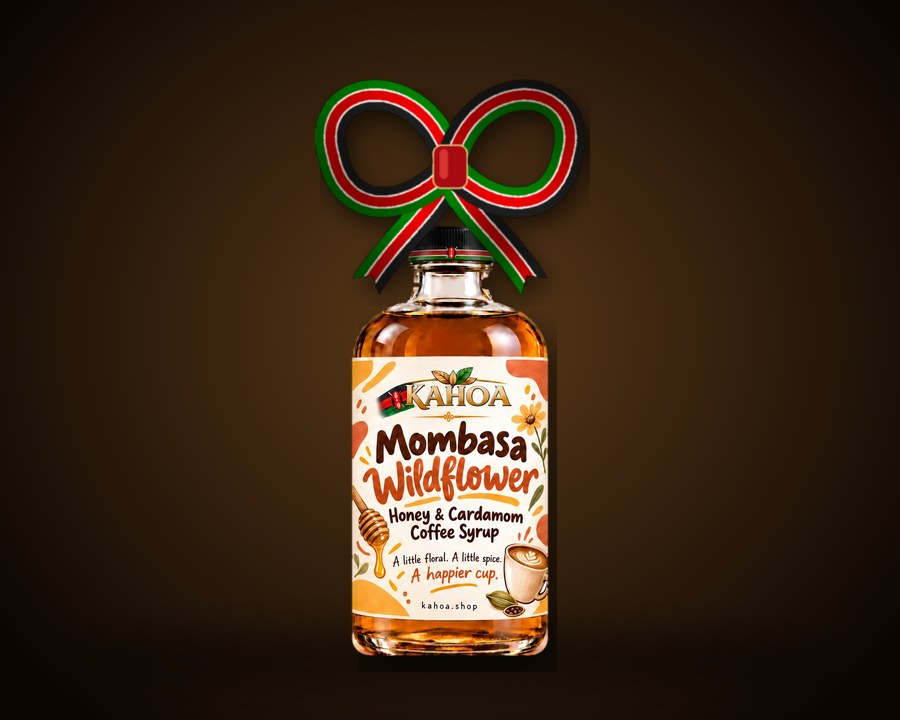
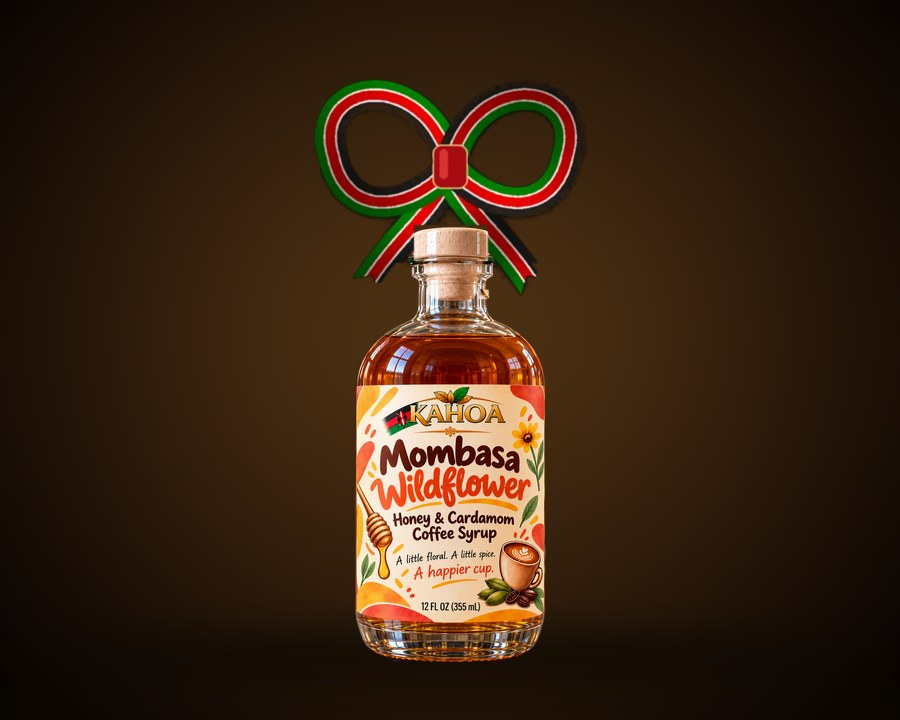
Swap syrup bottle photos to the new beige-cork bottle everywhere
Homepage strip, shop banner and syrup card, presale page, emails (syrup-front.jpg) and all six syrup gift-card images.

Claude-Session: https://claude.ai/code/session_01RGeNMpHd4Zkf2WXfT25wvz

Changed region(s): [[0.3733, 0.3056, 0.6222, 0.9472], [0.5911, 0.3667, 0.6222, 0.3972]]

diff --git a/shop.html b/shop.html
@@ -162,7 +162,7 @@ window.kahoaLaborDayActive=window.kahoaIsMemorialSaleActive;
 </script>
 
 <section style="min-height:52vh;background:radial-gradient(ellipse 80% 60% at 50% 0%,#2C1408 0%,#0E0502 55%,#000 100%);display:flex;flex-direction:column;align-items:center;justify-content:center;text-align:center;padding:120px 6% 60px;position:relative;overflow:hidden;"><style>@media (prefers-reduced-motion: reduce){#kahoa-shop-hero-video{display:none;}}</style><video id="kahoa-shop-hero-video" autoplay muted loop playsinline preload="metadata" poster="/kahoa-shop-hero-poster.jpg" style="position:absolute;top:0;left:0;width:100%;height:100%;object-fit:cover;z-index:0;"><source src="/kahoa-shop-hero.mp4" type="video/mp4"></video><div style="position:absolute;inset:0;z-index:1;background:linear-gradient(180deg,rgba(10,5,2,0.6) 0%,rgba(10,5,2,0.75) 45%,rgba(10,5,2,0.94) 100%),radial-gradient(ellipse 55% 35% at 50% 25%,rgba(192,122,42,0.12) 0%,transparent 70%);pointer-events:none;"></div><div style="position:relative;z-index:2;"><img src=/kahoa-logo.png alt="Kahoa Coffee" style="height:96px;width:auto;margin-bottom:18px;filter:drop-shadow(0 4px 20px rgba(212,168,67,0.2));"><p style="font-size:12px;letter-spacing:5px;text-transform:uppercase;color:rgba(212,168,67,0.72);margin-bottom:12px;font-weight:400;">Direct Trade · Single Origin · Austin Roasted</p><h1 style="font-family:'Cormorant Garamond',serif;font-size:clamp(40px,6vw,78px);font-weight:300;color:#fff;line-height:1.08;margin-bottom:14px;">Shop <em style="color:var(--gold);font-style:italic">Kahoa</em></h1><p style="font-size:15px;line-height:1.85;color:rgba(255,255,255,0.6);max-width:460px;margin:0 auto 26px;font-weight:300;">Kenyan highland coffee · apparel · gear · USA Kayak collab</p><div style="display:flex;gap:12px;flex-wrap:wrap;justify-content:center;"><a href=#coffee class=btn-primary>Browse Coffee</a></div></div></section><div class=divider-strip><span>Single Origin</span><span class=d-dot>·</span><span>Direct Trade</span><span class=d-dot>·</span><span>Austin Roasted</span><span class=d-dot>·</span><span>Free Austin Delivery</span></div>
-<a id="presale-banner" href="/syrup-presale.html" style="display:block;padding:22px 5%;text-decoration:none;color:#1A0C05;background:#F9F2E3;border-top:1px solid rgba(168,110,60,.3);border-bottom:1px solid rgba(168,110,60,.3);"><div class="pb-in"><img src="/syrup-front.png" alt="Mombasa Wildflower Honey and Cardamom Coffee Syrup" style="width:auto;height:112px;object-fit:contain;flex-shrink:0;filter:drop-shadow(0 8px 10px rgba(60,30,5,.35))"><span style="flex:1;min-width:0"><span style="display:block;font-size:10px;letter-spacing:3px;text-transform:uppercase;color:#C07A2A;font-weight:700;margin-bottom:6px">New &middot; Pre-sale opens Nov 1</span><span style="display:block;font-family:'Cormorant Garamond',serif;font-size:26px;line-height:1.15;font-weight:600">Mombasa Wildflower<br>Honey &amp; Cardamom Syrup</span><span style="display:block;font-size:12px;color:#6b4a2a;margin-top:6px">Texas wildflower honey &middot; Swahili-coast spice &middot; 12 oz &middot; <s style="opacity:.6">$20.00</s> <b style="color:#1A0C05">$18.00</b> Pre-Order Special &middot; ships from Nov 16</span></span><span class="pb-cta">Pre-order &rarr;</span></div></a>
+<a id="presale-banner" href="/syrup-presale.html" style="display:block;padding:22px 5%;text-decoration:none;color:#1A0C05;background:#F9F2E3;border-top:1px solid rgba(168,110,60,.3);border-bottom:1px solid rgba(168,110,60,.3);"><div class="pb-in"><img src="/syrup-front.png?v=2" alt="Mombasa Wildflower Honey and Cardamom Coffee Syrup" style="width:auto;height:112px;object-fit:contain;flex-shrink:0;filter:drop-shadow(0 8px 10px rgba(60,30,5,.35))"><span style="flex:1;min-width:0"><span style="display:block;font-size:10px;letter-spacing:3px;text-transform:uppercase;color:#C07A2A;font-weight:700;margin-bottom:6px">New &middot; Pre-sale opens Nov 1</span><span style="display:block;font-family:'Cormorant Garamond',serif;font-size:26px;line-height:1.15;font-weight:600">Mombasa Wildflower<br>Honey &amp; Cardamom Syrup</span><span style="display:block;font-size:12px;color:#6b4a2a;margin-top:6px">Texas wildflower honey &middot; Swahili-coast spice &middot; 12 oz &middot; <s style="opacity:.6">$20.00</s> <b style="color:#1A0C05">$18.00</b> Pre-Order Special &middot; ships from Nov 16</span></span><span class="pb-cta">Pre-order &rarr;</span></div></a>
 <div style="background:#0a0402;">
 <div class=shop-tabs>
 <div class=shop-tab-scroll-wrap style="position:relative;">
@@ -209,7 +209,7 @@ window.kahoaLaborDayActive=window.kahoaIsMemorialSaleActive;
 <div style="background:#1a0a04;border:1px solid rgba(212,168,67,0.25);overflow:hidden;position:relative;" id="spice-cold-brew-gallon"><div style="position:absolute;top:14px;right:14px;z-index:2;background:#8B0020;color:#fff;font-size:9px;font-weight:700;letter-spacing:1px;padding:4px 8px;border-radius:2px;text-transform:uppercase;">Popular</div><div style="height:300px;overflow:hidden;background:#3a2410;"><img src="/cold-brew-jug.jpg" alt="Kifaru Spice Cold Brew &mdash; Gallon in a Kahoa glass jug" loading="lazy" style="width:100%;height:100%;object-fit:cover;object-position:50% 85%;display:block;"></div><div style="padding:22px;"><p style="font-size:9px;letter-spacing:2px;text-transform:uppercase;color:#D4A843;margin-bottom:6px;font-weight:600;">Kifaru Spice</p><h3 style="font-family:'Cormorant Garamond',serif;font-size:23px;color:#fff;font-weight:600;margin-bottom:6px;">Kifaru Spice Cold Brew &mdash; Gallon</h3><p style="font-size:11px;color:rgba(255,255,255,0.45);margin-bottom:12px;">128 oz &middot; Ready to pour</p><div style="margin-bottom:10px"><span style="display:inline-block;border:1px solid rgba(212,168,67,.4);color:#E8C878;font-size:10px;letter-spacing:1.5px;text-transform:uppercase;padding:5px 9px;border-radius:2px;margin:0 6px 6px 0">Vanilla bean</span><span style="display:inline-block;border:1px solid rgba(212,168,67,.4);color:#E8C878;font-size:10px;letter-spacing:1.5px;text-transform:uppercase;padding:5px 9px;border-radius:2px;margin:0 6px 6px 0">Ginger</span><span style="display:inline-block;border:1px solid rgba(212,168,67,.4);color:#E8C878;font-size:10px;letter-spacing:1.5px;text-transform:uppercase;padding:5px 9px;border-radius:2px;margin:0 6px 6px 0">Cardamom</span><span style="display:inline-block;border:1px solid rgba(212,168,67,.4);color:#E8C878;font-size:10px;letter-spacing:1.5px;text-transform:uppercase;padding:5px 9px;border-radius:2px;margin:0 6px 6px 0">Clove</span><span style="display:inline-block;border:1px solid rgba(212,168,67,.4);color:#E8C878;font-size:10px;letter-spacing:1.5px;text-transform:uppercase;padding:5px 9px;border-radius:2px;margin:0 6px 6px 0">Cinnamon</span></div><p style="font-size:13px;color:rgba(255,255,255,0.6);line-height:1.65;font-weight:300;margin-bottom:14px;">Our full-size jug of spiced Kifaru cold brew, made for families, offices and weekend brunches. Austin-area delivery now, nationwide shipping coming soon.</p><p class="keep-short">Glass jug is yours to keep &middot; refills delivered</p><div class="keep-box" style="display:flex;gap:12px;align-items:flex-start;background:rgba(212,168,67,.08);border:1px solid rgba(212,168,67,.25);padding:12px 14px;margin-bottom:16px"><svg width="22" height="22" viewBox="0 0 24 24" fill="none" stroke="#D4A843" stroke-width="1.8" stroke-linecap="round" stroke-linejoin="round" style="flex-shrink:0;margin-top:1px"><path d="M21 12a9 9 0 1 1-3-6.7"/><path d="M21 4v5h-5"/></svg><p style="font-size:12px;line-height:1.6;color:rgba(255,255,255,.75);font-weight:300"><b style="color:#fff;font-weight:600">Your glass jug is yours to keep.</b> Your first order arrives in our Kahoa glass jug. After that, we deliver refills to pour straight in, on the schedule you choose.</p></div><div style="display:flex;align-items:center;justify-content:center;"><a href="#" onclick="kahoaOpenNotify('Kifaru Spice Cold Brew — Gallon');return false;" style="display:block;text-align:center;width:100%;background:var(--gold);color:var(--coffee-dark);padding:12px 20px;font-family:Montserrat,sans-serif;font-size:11px;font-weight:700;letter-spacing:2px;text-transform:uppercase;text-decoration:none;border-radius:3px;">Coming Soon &mdash; Notify Me</a></div></div></div><div style="background:#1a0a04;border:1px solid rgba(212,168,67,0.25);overflow:hidden;position:relative;" id="nitro-cold-brew-gallon"><div style="position:absolute;top:14px;right:14px;z-index:2;background:#8B0020;color:#fff;font-size:9px;font-weight:700;letter-spacing:1px;padding:4px 8px;border-radius:2px;text-transform:uppercase;">Starter Keg</div><div style="height:380px;overflow:hidden;background:#fff;"><img src="/nitro-keg-64.jpg" alt="Kifaru Spice Nitro &mdash; Kahoa 64 oz nitro keg" loading="lazy" style="width:100%;height:100%;object-fit:contain;display:block;"></div><div style="padding:22px;"><p style="font-size:9px;letter-spacing:2px;text-transform:uppercase;color:#D4A843;margin-bottom:6px;font-weight:600;">Kifaru Spice Nitro</p><h3 style="font-family:'Cormorant Garamond',serif;font-size:23px;color:#fff;font-weight:600;margin-bottom:6px;">Kifaru Spice Nitro &mdash; 64 oz Keg</h3><p style="font-size:11px;color:rgba(255,255,255,0.45);margin-bottom:12px;">64 oz stainless keg &middot; Nitro-ready</p><div style="margin-bottom:10px"><span style="display:inline-block;border:1px solid rgba(212,168,67,.4);color:#E8C878;font-size:10px;letter-spacing:1.5px;text-transform:uppercase;padding:5px 9px;border-radius:2px;margin:0 6px 6px 0">Vanilla bean</span><span style="display:inline-block;border:1px solid rgba(212,168,67,.4);color:#E8C878;font-size:10px;letter-spacing:1.5px;text-transform:uppercase;padding:5px 9px;border-radius:2px;margin:0 6px 6px 0">Ginger</span><span style="display:inline-block;border:1px solid rgba(212,168,67,.4);color:#E8C878;font-size:10px;letter-spacing:1.5px;text-transform:uppercase;padding:5px 9px;border-radius:2px;margin:0 6px 6px 0">Cardamom</span><span style="display:inline-block;border:1px solid rgba(212,168,67,.4);color:#E8C878;font-size:10px;letter-spacing:1.5px;text-transform:uppercase;padding:5px 9px;border-radius:2px;margin:0 6px 6px 0">Clove</span><span style="display:inline-block;border:1px solid rgba(212,168,67,.4);color:#E8C878;font-size:10px;letter-spacing:1.5px;text-transform:uppercase;padding:5px 9px;border-radius:2px;margin:0 6px 6px 0">Cinnamon</span></div><p style="font-size:13px;color:rgba(255,255,255,0.6);line-height:1.65;font-weight:300;margin-bottom:14px;">Our spiced cold brew in a 64 oz keg, with nitrogen capsules so you can infuse it at home for a creamy, cascading pour and a velvety head. Austin-area delivery only.</p><p class="keep-short">Keg is yours to keep &middot; refills delivered</p><div class="keep-box" style="display:flex;gap:12px;align-items:flex-start;background:rgba(212,168,67,.08);border:1px solid rgba(212,168,67,.25);padding:12px 14px;margin-bottom:16px"><svg width="22" height="22" viewBox="0 0 24 24" fill="none" stroke="#D4A843" stroke-width="1.8" stroke-linecap="round" stroke-linejoin="round" style="flex-shrink:0;margin-top:1px"><path d="M21 12a9 9 0 1 1-3-6.7"/><path d="M21 4v5h-5"/></svg><p style="font-size:12px;line-height:1.6;color:rgba(255,255,255,.75);font-weight:300"><b style="color:#fff;font-weight:600">The keg is yours to keep.</b> Your starter order comes with the 64 oz keg, your first fill and nitrogen capsules to infuse it. After that, we deliver refills on the schedule you choose, and you only reorder capsules when you run low.</p></div><p class="keg-price" style="font-size:13px;letter-spacing:.5px;color:#E8C878;font-weight:600;text-align:center;margin:-4px 0 16px">Starter keg $179 &middot; Refill $36 &middot; Capsules 6-pack $12</p><div style="display:flex;align-items:center;justify-content:center;"><a href="#" onclick="kahoaOpenNotify('Kifaru Spice Nitro — 64 oz Starter Keg');return false;" style="display:block;text-align:center;width:100%;background:var(--gold);color:var(--coffee-dark);padding:12px 20px;font-family:Montserrat,sans-serif;font-size:11px;font-weight:700;letter-spacing:2px;text-transform:uppercase;text-decoration:none;border-radius:3px;">Coming Soon &mdash; Notify Me</a></div></div></div><div style="background:#1a0a04;border:1px solid rgba(212,168,67,0.25);overflow:hidden;position:relative;" id="nitro-maker-17"><div style="position:absolute;top:14px;right:14px;z-index:2;background:#8B0020;color:#fff;font-size:9px;font-weight:700;letter-spacing:1px;padding:4px 8px;border-radius:2px;text-transform:uppercase;">Starter</div><div style="height:380px;overflow:hidden;background:#fff;"><img src="/nitro-maker-17.jpg" alt="Kifaru Spice Nitro &mdash; Kahoa 17 oz nitro maker" loading="lazy" style="width:100%;height:100%;object-fit:contain;display:block;"></div><div style="padding:22px;"><p style="font-size:9px;letter-spacing:2px;text-transform:uppercase;color:#D4A843;margin-bottom:6px;font-weight:600;">Kifaru Spice Nitro</p><h3 style="font-family:'Cormorant Garamond',serif;font-size:23px;color:#fff;font-weight:600;margin-bottom:6px;">Kifaru Spice Nitro &mdash; 17 oz Maker</h3><p style="font-size:11px;color:rgba(255,255,255,0.45);margin-bottom:12px;">17 oz (0.5 L) stainless nitro maker</p><div style="margin-bottom:10px"><span style="display:inline-block;border:1px solid rgba(212,168,67,.4);color:#E8C878;font-size:10px;letter-spacing:1.5px;text-transform:uppercase;padding:5px 9px;border-radius:2px;margin:0 6px 6px 0">Vanilla bean</span><span style="display:inline-block;border:1px solid rgba(212,168,67,.4);color:#E8C878;font-size:10px;letter-spacing:1.5px;text-transform:uppercase;padding:5px 9px;border-radius:2px;margin:0 6px 6px 0">Ginger</span><span style="display:inline-block;border:1px solid rgba(212,168,67,.4);color:#E8C878;font-size:10px;letter-spacing:1.5px;text-transform:uppercase;padding:5px 9px;border-radius:2px;margin:0 6px 6px 0">Cardamom</span><span style="display:inline-block;border:1px solid rgba(212,168,67,.4);color:#E8C878;font-size:10px;letter-spacing:1.5px;text-transform:uppercase;padding:5px 9px;border-radius:2px;margin:0 6px 6px 0">Clove</span><span style="display:inline-block;border:1px solid rgba(212,168,67,.4);color:#E8C878;font-size:10px;letter-spacing:1.5px;text-transform:uppercase;padding:5px 9px;border-radius:2px;margin:0 6px 6px 0">Cinnamon</span></div><p style="font-size:13px;color:rgba(255,255,255,0.6);line-height:1.65;font-weight:300;margin-bottom:14px;">The pocket-size way to try it: a stainless nitro maker that turns one or two glasses of Kifaru Spice into a creamy, cascading pour. Austin-area delivery only.</p><p class="keep-short">Maker is yours to keep &middot; refills delivered</p><div class="keep-box" style="display:flex;gap:12px;align-items:flex-start;background:rgba(212,168,67,.08);border:1px solid rgba(212,168,67,.25);padding:12px 14px;margin-bottom:16px"><svg width="22" height="22" viewBox="0 0 24 24" fill="none" stroke="#D4A843" stroke-width="1.8" stroke-linecap="round" stroke-linejoin="round" style="flex-shrink:0;margin-top:1px"><path d="M21 12a9 9 0 1 1-3-6.7"/><path d="M21 4v5h-5"/></svg><p style="font-size:12px;line-height:1.6;color:rgba(255,255,255,.75);font-weight:300"><b style="color:#fff;font-weight:600">The maker is yours to keep.</b> Your starter order comes with the 17 oz maker, your first fill and capsules to charge it. After that, we deliver refills on the schedule you choose, and you only reorder capsules when you run low.</p></div><p class="keg-price" style="font-size:13px;letter-spacing:.5px;color:#E8C878;font-weight:600;text-align:center;margin:-4px 0 16px">Starter $99 &middot; Refill 4-pack (4 &times; 17 oz) $36 &middot; Capsules 6-pack $12</p><div style="display:flex;align-items:center;justify-content:center;"><a href="#" onclick="kahoaOpenNotify('Kifaru Spice Nitro — 17 oz Maker');return false;" style="display:block;text-align:center;width:100%;background:var(--gold);color:var(--coffee-dark);padding:12px 20px;font-family:Montserrat,sans-serif;font-size:11px;font-weight:700;letter-spacing:2px;text-transform:uppercase;text-decoration:none;border-radius:3px;">Coming Soon &mdash; Notify Me</a></div></div></div>
 
 <div style="background:#1a0a04;border:1px solid rgba(212,168,67,0.18);overflow:hidden;" id="mombasa-honey-cardamom-syrup">
-<div style="height:280px;background:radial-gradient(ellipse at 50% 45%,#6b4416 0%,#2a1608 70%);display:flex;align-items:center;justify-content:center;padding:18px 0;"><img alt="Mombasa Wildflower Honey &amp; Cardamom Coffee Syrup bottle" src="/syrup-front.png" loading="lazy" style="height:100%;width:auto;object-fit:contain;filter:drop-shadow(0 14px 16px rgba(0,0,0,.5));"/></div>
+<div style="height:280px;background:radial-gradient(ellipse at 50% 45%,#6b4416 0%,#2a1608 70%);display:flex;align-items:center;justify-content:center;padding:18px 0;"><img alt="Mombasa Wildflower Honey &amp; Cardamom Coffee Syrup bottle" src="/syrup-front.png?v=2" loading="lazy" style="height:100%;width:auto;object-fit:contain;filter:drop-shadow(0 14px 16px rgba(0,0,0,.5));"/></div>
 <div style="padding:24px;">
 <p style="font-size:10px;letter-spacing:2px;text-transform:uppercase;color:var(--caramel);margin-bottom:6px;font-weight:600;">Coffee Syrup</p>
 <h3 style="font-family:'Cormorant Garamond',serif;font-size:22px;color:#fff;font-weight:600;margin-bottom:8px;">Mombasa Wildflower Honey &amp; Cardamom Coffee Syrup</h3>
@@ -286,7 +286,7 @@ window.kahoaLaborDayActive=window.kahoaIsMemorialSaleActive;
 </div>
 </div>
 </section>
-</div><div class="shop-tab-panel tab-gifts" id="shop-panel-gifts"><section style="padding:92px 6%;background:linear-gradient(180deg,#3d1020 0%,#240912 55%,#170508 100%);border-top:1px solid rgba(232,200,120,.25);"><div style="max-width:1140px;margin:0 auto;"><div style="text-align:center;margin-bottom:34px;"><p class="section-eyebrow" style="color:rgba(212,168,67,0.7)">Gift Cards</p><h2 class="section-title" style="color:#fff">Give Kahoa</h2><p style="color:rgba(255,255,255,0.55);font-size:15px;line-height:1.85;max-width:520px;margin:0 auto;font-weight:300;">Pick a bundle. We give you a gift code the moment you pay. Send it to anyone and they choose their blends and where it ships.</p></div><div class="hiw dk"><span><b>1</b>Pick a bundle</span><span><b>2</b>Pay and get your gift code</span><span><b>3</b>Send the code to your person</span></div><div class="gift-grid"><div class="gc-card" id="gift-collection"><div class="gc-img"><img src="/gift-collection.jpg" alt="The Kahoa Collection gift bundle: 3 coffees + 2 syrups" loading="lazy"><span class="gc-save">Save $10</span></div><div class="gc-body"><h3>The Kahoa Collection</h3><p class="gc-c">3 coffees + 2 syrups</p><p class="gc-p">$86 <small>Shipping included</small></p><a class="gc-btn" href="/gift-cards.html?b=collection">Buy Gift Card</a></div></div><div class="gc-card" id="gift-full-taste"><div class="gc-img"><img src="/gift-full-taste.jpg" alt="The Full Taste gift bundle: 3 coffees + 1 syrup" loading="lazy"><span class="gc-save">Save $8</span></div><div class="gc-body"><h3>The Full Taste</h3><p class="gc-c">3 coffees + 1 syrup</p><p class="gc-p">$70 <small>Shipping included</small></p><a class="gc-btn" href="/gift-cards.html?b=full-taste">Buy Gift Card</a></div></div><div class="gc-card" id="gift-pair-plus"><div class="gc-img"><img src="/gift-pair-plus.jpg" alt="Pair + Syrup gift bundle: 2 coffees + 1 syrup" loading="lazy"><span class="gc-save">Save $6</span></div><div class="gc-body"><h3>Pair + Syrup</h3><p class="gc-c">2 coffees + 1 syrup</p><p class="gc-p">$52 <small>Shipping included</small></p><a class="gc-btn" href="/gift-cards.html?b=pair-plus">Buy Gift Card</a></div></div><div class="gc-card" id="gift-starter"><div class="gc-img"><img src="/gift-starter.jpg" alt="The Starter gift bundle: 1 coffee + 1 syrup" loading="lazy"></div><div class="gc-body"><h3>The Starter</h3><p class="gc-c">1 coffee + 1 syrup</p><p class="gc-p">$40 <small>Shipping included</small></p><a class="gc-btn" href="/gift-cards.html?b=starter">Buy Gift Card</a></div></div><div class="gc-card" id="gift-trio"><div class="gc-img"><img src="/gift-trio.jpg" alt="Coffee Trio gift bundle: 3 coffees" loading="lazy"><span class="gc-save">Save $6</span></div><div class="gc-body"><h3>Coffee Trio</h3><p class="gc-c">3 coffees</p><p class="gc-p">$54 <small>Shipping included</small></p><a class="gc-btn" href="/gift-cards.html?b=trio">Buy Gift Card</a></div></div><div class="gc-card" id="gift-coffee-pair"><div class="gc-img"><img src="/gift-coffee-pair.jpg" alt="Coffee Pair gift bundle: 2 coffees" loading="lazy"></div><div class="gc-body"><h3>Coffee Pair</h3><p class="gc-c">2 coffees</p><p class="gc-p">$42 <small>Shipping included</small></p><a class="gc-btn" href="/gift-cards.html?b=coffee-pair">Buy Gift Card</a></div></div><div class="gc-card" id="gift-syrup-duo"><div class="gc-img"><img src="/gift-syrup-duo.jpg" alt="Syrup Duo gift bundle: 2 syrups" loading="lazy"></div><div class="gc-body"><h3>Syrup Duo</h3><p class="gc-c">2 syrups</p><p class="gc-p">$38 <small>Shipping included</small></p><a class="gc-btn" href="/gift-cards.html?b=syrup-duo">Buy Gift Card</a></div></div><div class="gc-card" id="gift-syrup"><div class="gc-img"><img src="/gift-syrup.jpg" alt="Single Syrup gift bundle: 1 syrup" loading="lazy"></div><div class="gc-body"><h3>Single Syrup</h3><p class="gc-c">1 syrup</p><p class="gc-p">$24 <small>Shipping included</small></p><a class="gc-btn" href="/gift-cards.html?b=syrup">Buy Gift Card</a></div></div></div><p style="text-align:center;margin-top:26px;font-size:13px;color:rgba(255,255,255,.55)">Got a gift code? <a href="/gift-redeem.html" style="color:var(--gold);text-decoration:underline">Redeem it here</a></p></div></section></div><div class="shop-tab-panel tab-teamusa" id="shop-panel-teamusa">
+</div><div class="shop-tab-panel tab-gifts" id="shop-panel-gifts"><section style="padding:92px 6%;background:linear-gradient(180deg,#3d1020 0%,#240912 55%,#170508 100%);border-top:1px solid rgba(232,200,120,.25);"><div style="max-width:1140px;margin:0 auto;"><div style="text-align:center;margin-bottom:34px;"><p class="section-eyebrow" style="color:rgba(212,168,67,0.7)">Gift Cards</p><h2 class="section-title" style="color:#fff">Give Kahoa</h2><p style="color:rgba(255,255,255,0.55);font-size:15px;line-height:1.85;max-width:520px;margin:0 auto;font-weight:300;">Pick a bundle. We give you a gift code the moment you pay. Send it to anyone and they choose their blends and where it ships.</p></div><div class="hiw dk"><span><b>1</b>Pick a bundle</span><span><b>2</b>Pay and get your gift code</span><span><b>3</b>Send the code to your person</span></div><div class="gift-grid"><div class="gc-card" id="gift-collection"><div class="gc-img"><img src="/gift-collection.jpg?v=2" alt="The Kahoa Collection gift bundle: 3 coffees + 2 syrups" loading="lazy"><span class="gc-save">Save $10</span></div><div class="gc-body"><h3>The Kahoa Collection</h3><p class="gc-c">3 coffees + 2 syrups</p><p class="gc-p">$86 <small>Shipping included</small></p><a class="gc-btn" href="/gift-cards.html?b=collection">Buy Gift Card</a></div></div><div class="gc-card" id="gift-full-taste"><div class="gc-img"><img src="/gift-full-taste.jpg?v=2" alt="The Full Taste gift bundle: 3 coffees + 1 syrup" loading="lazy"><span class="gc-save">Save $8</span></div><div class="gc-body"><h3>The Full Taste</h3><p class="gc-c">3 coffees + 1 syrup</p><p class="gc-p">$70 <small>Shipping included</small></p><a class="gc-btn" href="/gift-cards.html?b=full-taste">Buy Gift Card</a></div></div><div class="gc-card" id="gift-pair-plus"><div class="gc-img"><img src="/gift-pair-plus.jpg?v=2" alt="Pair + Syrup gift bundle: 2 coffees + 1 syrup" loading="lazy"><span class="gc-save">Save $6</span></div><div class="gc-body"><h3>Pair + Syrup</h3><p class="gc-c">2 coffees + 1 syrup</p><p class="gc-p">$52 <small>Shipping included</small></p><a class="gc-btn" href="/gift-cards.html?b=pair-plus">Buy Gift Card</a></div></div><div class="gc-card" id="gift-starter"><div class="gc-img"><img src="/gift-starter.jpg?v=2" alt="The Starter gift bundle: 1 coffee + 1 syrup" loading="lazy"></div><div class="gc-body"><h3>The Starter</h3><p class="gc-c">1 coffee + 1 syrup</p><p class="gc-p">$40 <small>Shipping included</small></p><a class="gc-btn" href="/gift-cards.html?b=starter">Buy Gift Card</a></div></div><div class="gc-card" id="gift-trio"><div class="gc-img"><img src="/gift-trio.jpg" alt="Coffee Trio gift bundle: 3 coffees" loading="lazy"><span class="gc-save">Save $6</span></div><div class="gc-body"><h3>Coffee Trio</h3><p class="gc-c">3 coffees</p><p class="gc-p">$54 <small>Shipping included</small></p><a class="gc-btn" href="/gift-cards.html?b=trio">Buy Gift Card</a></div></div><div class="gc-card" id="gift-coffee-pair"><div class="gc-img"><img src="/gift-coffee-pair.jpg" alt="Coffee Pair gift bundle: 2 coffees" loading="lazy"></div><div class="gc-body"><h3>Coffee Pair</h3><p class="gc-c">2 coffees</p><p class="gc-p">$42 <small>Shipping included</small></p><a class="gc-btn" href="/gift-cards.html?b=coffee-pair">Buy Gift Card</a></div></div><div class="gc-card" id="gift-syrup-duo"><div class="gc-img"><img src="/gift-syrup-duo.jpg?v=2" alt="Syrup Duo gift bundle: 2 syrups" loading="lazy"></div><div class="gc-body"><h3>Syrup Duo</h3><p class="gc-c">2 syrups</p><p class="gc-p">$38 <small>Shipping included</small></p><a class="gc-btn" href="/gift-cards.html?b=syrup-duo">Buy Gift Card</a></div></div><div class="gc-card" id="gift-syrup"><div class="gc-img"><img src="/gift-syrup.jpg?v=2" alt="Single Syrup gift bundle: 1 syrup" loading="lazy"></div><div class="gc-body"><h3>Single Syrup</h3><p class="gc-c">1 syrup</p><p class="gc-p">$24 <small>Shipping included</small></p><a class="gc-btn" href="/gift-cards.html?b=syrup">Buy Gift Card</a></div></div></div><p style="text-align:center;margin-top:26px;font-size:13px;color:rgba(255,255,255,.55)">Got a gift code? <a href="/gift-redeem.html" style="color:var(--gold);text-decoration:underline">Redeem it here</a></p></div></section></div><div class="shop-tab-panel tab-teamusa" id="shop-panel-teamusa">
 </div><section style="background:linear-gradient(135deg,#000820 0%,#001550 50%,#bf0a30 100%);padding:64px 6%;text-align:center;position:relative;overflow:hidden;"><div style="position:relative;max-width:800px;margin:0 auto;"><div style="display:flex;align-items:center;justify-content:center;gap:24px;margin-bottom:24px;flex-wrap:wrap;"><img alt="USA Kayak" src="/teamusalogo.png" style="height:56px;width:auto;filter:drop-shadow(0 2px 8px rgba(0,0,0,0.5));" loading="lazy" decoding="async"/><span style="font-family:'Cormorant Garamond',serif;font-size:32px;color:rgba(255,255,255,0.3);">×</span><img alt="Kahoa Coffee" src="/kahoa-logo.png" style="height:96px;width:auto;filter:drop-shadow(0 2px 8px rgba(0,0,0,0.5));"/></div><p style="font-size:11px;letter-spacing:4px;text-transform:uppercase;color:rgba(212,168,67,0.7);margin-bottom:12px;font-weight:600;">Official Coffee Sponsor</p><img alt="Kahoa x USA Kayak Polo Stealth Elite Backpack" src="/backpack-front.png" style="width:100%;max-width:420px;height:auto;display:block;margin:0 auto 20px;filter:drop-shadow(0 14px 16px rgba(0,0,0,.5));" loading="lazy" decoding="async"/><h2 style="font-family:'Cormorant Garamond',serif;font-size:clamp(26px,4vw,46px);font-weight:300;color:#fff;line-height:1.15;margin-bottom:14px;">Fueling the USA Kayak Polo Women's National Team</h2><p style="font-size:15px;color:rgba(255,255,255,0.6);line-height:1.8;font-weight:300;max-width:480px;margin:0 auto 16px;">Built in Kenya. Roasted in Texas. Co-branded gear dropped July 3rd, 2026, and it&rsquo;s still available.</p><p style="font-size:13px;color:rgba(255,255,255,0.5);line-height:1.75;max-width:480px;margin:0 auto 24px;font-style:italic;">These incredible women represented the USA at the <strong style="color:rgba(212,168,67,0.8);">World Championships in Duisburg, Germany</strong> this September. Proud of our girls for representing. A portion of every <strong style="color:rgba(212,168,67,0.8);">Backpack or Bundle</strong> purchase supports the team. 🇺🇸</p><a href="/usa-kayak.html" style="display:inline-block;background:var(--gold);color:var(--coffee-dark);padding:14px 36px;font-family:Montserrat,sans-serif;font-size:12px;font-weight:700;letter-spacing:2px;text-transform:uppercase;text-decoration:none;">See the Collab →</a></div></section>
 
 <section style="background:linear-gradient(135deg,#1C0E06 0%,#2C1408 100%);padding:64px 6%;text-align:center;">

diff --git a/index.html b/index.html
@@ -69,7 +69,7 @@ html,body{overflow-x:clip;width:100%;}</style></style>
 
 
 <div class=kenya-flag-bar></div>
-<nav class=site-nav id=siteNav><a class=sn-logo href=/><img alt="Kahoa Coffee" src=/kahoa-logo.png style="height:66px;width:auto;object-fit:contain;display:block;"></a><div class=sn-nav-right><a href=/ class=sn-home-link>Home</a><button aria-label="Open cart" onclick="kahoaCartOpen()" onmouseout="this.style.transform='none';this.style.boxShadow='0 3px 12px rgba(20,12,5,.32),0 0 0 1px rgba(232,199,106,.12)'" onmouseover="this.style.transform='translateY(-1px)';this.style.boxShadow='0 6px 18px rgba(20,12,5,.42),0 0 0 1px rgba(232,199,106,.25)'" style="position:relative;color:#e8c76a;cursor:pointer;background:linear-gradient(135deg,#1a0f08 0%,#3d2817 100%);border:1px solid #e8c76a73;border-radius:50%;justify-content:center;align-items:center;width:34px;height:34px;flex-shrink:0;font-family:Poppins,sans-serif;transition:transform .2s,box-shadow .2s;display:flex;box-shadow:0 3px 12px #140c0552,0 0 0 1px #e8c76a1f;overflow:visible;touch-action:manipulation;" id=kahoa-cart-icon><svg viewbox="0 0 24 24" fill=none height=14 stroke=currentColor stroke-linecap=round stroke-linejoin=round stroke-width=2.2 width=14><path d="M6 2L3 6v14a2 2 0 0 0 2 2h14a2 2 0 0 0 2-2V6l-3-4z"/><line x1=3 x2=21 y1=6 y2=6 /><path d="M16 10a4 4 0 0 1-8 0"/></svg><span style="color:#1a0f08;background:linear-gradient(#e8c76a 0%,#c9a24d 100%);border:1.2px solid #1a0f08;border-radius:7px;justify-content:center;align-items:center;min-width:14px;height:14px;padding:0 3px;font-family:Poppins,sans-serif;font-size:8px;font-weight:700;display:none;position:absolute;top:-3px;right:-3px;box-shadow:0 2px 4px #140c0566" id=kahoa-cart-badge>0</span><span aria-hidden=true id=kahoa-cart-flag-dots style=pointer-events:none;z-index:3;align-items:flex-end;gap:1.5px;display:inline-flex;position:absolute;top:4px;left:50%;transform:translate(-50%)><span style="background:#2d6a2d;border-radius:1.5px 1.5px 1px 1px;width:3px;height:5px;display:block;box-shadow:0 -1px 1px #0000004d"></span><span style="background:#c8102e;border-radius:1.5px 1.5px 1px 1px;width:3px;height:6px;display:block;box-shadow:0 -1px 1px #0000004d"></span><span style="background:#1a1a1a;border-radius:1.5px 1.5px 1px 1px;width:3px;height:4px;display:block;box-shadow:0 -1px 1px #e8c76a66"></span></span></button><button aria-label="Open menu" class=sn-toggle id=snToggle onclick=toggleSideNav() style=position:relative><span></span><span></span><span></span><span class=sn-menu-dot></span></button></div></nav><div id="syrup-strip" role="region" aria-label="New product announcement"><img src="/syrup-front.png" alt="" width="22" height="30"><span class="ss-txt"><b>New</b> <span class="ss-long">Mombasa Wildflower Honey &amp; Cardamom Syrup</span><span class="ss-short">Mombasa Wildflower Syrup</span> <span class="ss-when" id="ss-when">&middot; pre-orders open Nov 1</span></span><a id="ss-cta" href="/syrup-presale.html">Get on the list &rarr;</a><button type="button" id="ss-x" aria-label="Dismiss">&times;</button></div>
+<nav class=site-nav id=siteNav><a class=sn-logo href=/><img alt="Kahoa Coffee" src=/kahoa-logo.png style="height:66px;width:auto;object-fit:contain;display:block;"></a><div class=sn-nav-right><a href=/ class=sn-home-link>Home</a><button aria-label="Open cart" onclick="kahoaCartOpen()" onmouseout="this.style.transform='none';this.style.boxShadow='0 3px 12px rgba(20,12,5,.32),0 0 0 1px rgba(232,199,106,.12)'" onmouseover="this.style.transform='translateY(-1px)';this.style.boxShadow='0 6px 18px rgba(20,12,5,.42),0 0 0 1px rgba(232,199,106,.25)'" style="position:relative;color:#e8c76a;cursor:pointer;background:linear-gradient(135deg,#1a0f08 0%,#3d2817 100%);border:1px solid #e8c76a73;border-radius:50%;justify-content:center;align-items:center;width:34px;height:34px;flex-shrink:0;font-family:Poppins,sans-serif;transition:transform .2s,box-shadow .2s;display:flex;box-shadow:0 3px 12px #140c0552,0 0 0 1px #e8c76a1f;overflow:visible;touch-action:manipulation;" id=kahoa-cart-icon><svg viewbox="0 0 24 24" fill=none height=14 stroke=currentColor stroke-linecap=round stroke-linejoin=round stroke-width=2.2 width=14><path d="M6 2L3 6v14a2 2 0 0 0 2 2h14a2 2 0 0 0 2-2V6l-3-4z"/><line x1=3 x2=21 y1=6 y2=6 /><path d="M16 10a4 4 0 0 1-8 0"/></svg><span style="color:#1a0f08;background:linear-gradient(#e8c76a 0%,#c9a24d 100%);border:1.2px solid #1a0f08;border-radius:7px;justify-content:center;align-items:center;min-width:14px;height:14px;padding:0 3px;font-family:Poppins,sans-serif;font-size:8px;font-weight:700;display:none;position:absolute;top:-3px;right:-3px;box-shadow:0 2px 4px #140c0566" id=kahoa-cart-badge>0</span><span aria-hidden=true id=kahoa-cart-flag-dots style=pointer-events:none;z-index:3;align-items:flex-end;gap:1.5px;display:inline-flex;position:absolute;top:4px;left:50%;transform:translate(-50%)><span style="background:#2d6a2d;border-radius:1.5px 1.5px 1px 1px;width:3px;height:5px;display:block;box-shadow:0 -1px 1px #0000004d"></span><span style="background:#c8102e;border-radius:1.5px 1.5px 1px 1px;width:3px;height:6px;display:block;box-shadow:0 -1px 1px #0000004d"></span><span style="background:#1a1a1a;border-radius:1.5px 1.5px 1px 1px;width:3px;height:4px;display:block;box-shadow:0 -1px 1px #e8c76a66"></span></span></button><button aria-label="Open menu" class=sn-toggle id=snToggle onclick=toggleSideNav() style=position:relative><span></span><span></span><span></span><span class=sn-menu-dot></span></button></div></nav><div id="syrup-strip" role="region" aria-label="New product announcement"><img src="/syrup-front.png?v=2" alt="" width="22" height="30"><span class="ss-txt"><b>New</b> <span class="ss-long">Mombasa Wildflower Honey &amp; Cardamom Syrup</span><span class="ss-short">Mombasa Wildflower Syrup</span> <span class="ss-when" id="ss-when">&middot; pre-orders open Nov 1</span></span><a id="ss-cta" href="/syrup-presale.html">Get on the list &rarr;</a><button type="button" id="ss-x" aria-label="Dismiss">&times;</button></div>
 <style id="syrup-strip-css">#syrup-strip{position:fixed;top:60px;left:0;right:0;z-index:399;display:none;align-items:center;justify-content:center;gap:12px;padding:7px 44px 7px 14px;background:linear-gradient(90deg,#3a2410,#5c3a14 50%,#3a2410);border-bottom:1px solid rgba(212,168,67,.35);color:#f6e7c1;font-family:Montserrat,sans-serif;font-size:12px;letter-spacing:.3px}#syrup-strip img{height:26px;width:auto;filter:drop-shadow(0 2px 3px rgba(0,0,0,.5))}#syrup-strip b{color:#D4A843;letter-spacing:2px;text-transform:uppercase;font-size:10px;margin-right:4px}#syrup-strip .ss-short{display:none}#syrup-strip .ss-when{opacity:.75}#syrup-strip a{color:#1C0E06;background:#D4A843;text-decoration:none;font-weight:700;font-size:10px;letter-spacing:1.4px;text-transform:uppercase;padding:6px 12px;border-radius:3px;white-space:nowrap}#syrup-strip button{position:absolute;right:10px;top:50%;transform:translateY(-50%);background:none;border:0;color:rgba(246,231,193,.7);font-size:20px;line-height:1;cursor:pointer;padding:4px 8px}@media(max-width:700px){#syrup-strip{gap:8px;padding:6px 36px 6px 10px;font-size:11px}#syrup-strip .ss-long,#syrup-strip .ss-when{display:none}#syrup-strip .ss-short{display:inline}#syrup-strip a{padding:6px 9px;font-size:9px;letter-spacing:1px}}</style>
 <script>(function(){var el=document.getElementById("syrup-strip");if(!el)return;try{if(sessionStorage.getItem("kahoaSyrupStrip")==="x")return}catch(e){}if(Date.now()>=Date.parse("2026-11-01T00:00:00-05:00")){document.getElementById("ss-when").innerHTML="&middot; pre-orders are open";var c=document.getElementById("ss-cta");c.innerHTML="Pre-order now &rarr;"}el.style.display="flex";document.getElementById("ss-x").addEventListener("click",function(){el.style.display="none";try{sessionStorage.setItem("kahoaSyrupStrip","x")}catch(e){}})})();</script><div id="ss-modal" style="display:none;position:fixed;inset:0;z-index:99999;background:rgba(0,0,0,.85);align-items:center;justify-content:center;padding:20px"><div style="background:#1a0a04;border:1px solid rgba(212,168,67,.3);padding:34px 30px;max-width:400px;width:100%;position:relative"><button type="button" id="ss-close" aria-label="Close" style="position:absolute;top:10px;right:14px;background:none;border:0;color:rgba(255,255,255,.55);font-size:22px;cursor:pointer">&times;</button><p style="font-size:10px;letter-spacing:3px;text-transform:uppercase;color:rgba(212,168,67,.75);font-weight:600;margin-bottom:8px">Pre-orders open Nov 1</p><h3 style="font-family:'Cormorant Garamond',serif;font-size:25px;color:#fff;font-weight:400;line-height:1.2;margin-bottom:8px">Mombasa Wildflower Honey &amp; Cardamom Syrup</h3><p style="font-size:13px;color:rgba(255,255,255,.55);line-height:1.6;margin-bottom:18px;font-weight:300">Leave your email and we will send you the link the moment pre-orders open.</p><input id="ss-email" type="email" placeholder="Your email address" autocomplete="email" style="width:100%;padding:12px 14px;background:rgba(255,255,255,.08);border:1px solid rgba(255,255,255,.15);color:#fff;font-family:Montserrat,sans-serif;font-size:13px;margin-bottom:10px;box-sizing:border-box;outline:none"><input id="ss-name" type="text" placeholder="Your name (optional)" autocomplete="name" style="width:100%;padding:12px 14px;background:rgba(255,255,255,.08);border:1px solid rgba(255,255,255,.15);color:#fff;font-family:Montserrat,sans-serif;font-size:13px;margin-bottom:14px;box-sizing:border-box;outline:none"><button type="button" id="ss-send" style="width:100%;background:#D4A843;color:#1C0E06;border:0;padding:13px;font-family:Montserrat,sans-serif;font-size:11px;font-weight:700;letter-spacing:2px;text-transform:uppercase;cursor:pointer">Remind Me</button><p id="ss-msg" style="display:none;font-size:12px;color:#E8C878;margin-top:12px;line-height:1.5"></p></div></div><script>(function(){var cta=document.getElementById("ss-cta"),m=document.getElementById("ss-modal");if(!cta||!m)return;if(Date.now()>=Date.parse("2026-11-01T00:00:00-05:00"))return;cta.innerHTML="Remind me &rarr;";cta.setAttribute("href","#");cta.addEventListener("click",function(e){e.preventDefault();document.getElementById("ss-msg").style.display="none";document.getElementById("ss-email").value="";m.style.display="flex";setTimeout(function(){document.getElementById("ss-email").focus()},50)});function close(){m.style.display="none"}document.getElementById("ss-close").addEventListener("click",close);m.addEventListener("click",function(e){if(e.target===m)close()});document.getElementById("ss-send").addEventListener("click",function(){var em=document.getElementById("ss-email").value.trim(),nm=document.getElementById("ss-name").value.trim()||"Friend",msg=document.getElementById("ss-msg");if(!em||em.indexOf("@")<1){document.getElementById("ss-email").style.borderColor="#c0392b";return}msg.style.display="block";msg.textContent="Saving...";try{fetch("https://script.google.com/macros/s/AKfycbywSRK7UEk7mTBFCGdk1q4eRHv289hVmWtR1OKDqxLruwmKbRf_GkAwkiuEepPfk22Q/exec",{method:"POST",mode:"no-cors",headers:{"Content-Type":"application/json"},body:JSON.stringify({timestamp:new Date().toISOString(),name:nm,email:em,phone:"",product:"Mombasa Wildflower Syrup (Homepage reminder)",grind:"N/A",total:"Coming Soon",coupon:"",address:"",opted_in:"Yes",source:"kahoa.shop/home-strip"})}).catch(function(){})}catch(x){}msg.textContent="Got it! We will email you at "+em+" on November 1.";setTimeout(close,2600)})})();</script><script>window.kahoaIsMemorialSaleActive=function(){var now=new Date();var start=new Date(2026,8,2,0,0,0);var end=new Date(2026,8,8,0,0,0);return now>=start&&now<end;};</script>
 

diff --git a/syrup-presale.html b/syrup-presale.html
@@ -9,7 +9,7 @@
 <link rel="icon" type="image/png" href="/kahoalogo.png">
 <link href="https://fonts.googleapis.com/css2?family=Cormorant+Garamond:ital,wght@0,300;0,400;0,600;1,300&family=Montserrat:wght@300;400;500;600;700&display=swap" rel="stylesheet">
 <script src="https://web.squarecdn.com/v1/square.js" defer></script>
-<script type="application/ld+json">{"@context":"https://schema.org","@type":"Product","name":"Mombasa Wildflower Honey & Cardamom Coffee Syrup","image":"https://kahoa.shop/syrup-front.png","description":"Texas wildflower honey and cardamom coffee syrup inspired by Kenya's Swahili coast. 12 oz bottle.","brand":{"@type":"Brand","name":"Kahoa Coffee"},"offers":{"@type":"Offer","url":"https://kahoa.shop/syrup-presale.html","priceCurrency":"USD","price":"18.00","availability":"https://schema.org/PreOrder","availabilityStarts":"2026-11-01"}}</script>
+<script type="application/ld+json">{"@context":"https://schema.org","@type":"Product","name":"Mombasa Wildflower Honey & Cardamom Coffee Syrup","image":"https://kahoa.shop/syrup-front.png?v=2","description":"Texas wildflower honey and cardamom coffee syrup inspired by Kenya's Swahili coast. 12 oz bottle.","brand":{"@type":"Brand","name":"Kahoa Coffee"},"offers":{"@type":"Offer","url":"https://kahoa.shop/syrup-presale.html","priceCurrency":"USD","price":"18.00","availability":"https://schema.org/PreOrder","availabilityStarts":"2026-11-01"}}</script>
 <style>
 *,*::before,*::after{box-sizing:border-box;margin:0;padding:0}
 :root{--gold:#D4A843;--gold-light:#E8C878;--dark:#1C0E06}
@@ -54,7 +54,7 @@ button.pay:disabled{opacity:.6;cursor:default}
   <span class="badge" id="badge">Pre-sale opens November 1</span>
   <h1>Mombasa Wildflower<br>Honey &amp; Cardamom Coffee Syrup</h1>
   <p class="lead">Texas wildflower honey and cardamom, inspired by the spiced coffee traditions of Kenya's Swahili coast. Stir it into coffee, lattes and cold brew. Made in small batches in Austin.</p>
-  <div class="img"><img src="/syrup-front.png" alt="Mombasa Wildflower Honey and Cardamom Coffee Syrup bottle"></div>
+  <div class="img"><img src="/syrup-front.png?v=2" alt="Mombasa Wildflower Honey and Cardamom Coffee Syrup bottle"></div>
   <div class="price"><s style="opacity:.55;font-weight:400;font-size:24px">$20.00</s> $18.00 <small style="color:var(--gold);font-weight:600;letter-spacing:.5px;margin-left:2px">(Pre-Order Special)</small><small>/ 12 oz bottle &middot; plus 8.25% sales tax (Texas orders)</small></div>
   <ul class="facts">
     <li>Pre-orders open November 1. Deliveries start November 16</li>

diff --git a/gift-cards.html b/gift-cards.html
@@ -132,7 +132,7 @@ function ship(b){return 0}
 function total(b){return Math.round((b.price+ship(b))*100)/100}
 function render(){
   var h='';BUNDLES.forEach(function(b){
-    h+='<button type="button" class="b" id="b-'+b.id+'" onclick="choose(\''+b.id+'\')"><div class="im"><img src="/'+IMG[b.id]+'.jpg" alt="'+b.name+' gift bundle" loading="lazy"></div><div class="tx"><h3>'+b.name+'</h3><div class="c">'+contents(b)+'</div><div class="p">'+money(b.price)+'<small>'+'Shipping included'+'</small></div></div></button>';});
+    h+='<button type="button" class="b" id="b-'+b.id+'" onclick="choose(\''+b.id+'\')"><div class="im"><img src="/'+IMG[b.id]+'.jpg?v=2" alt="'+b.name+' gift bundle" loading="lazy"></div><div class="tx"><h3>'+b.name+'</h3><div class="c">'+contents(b)+'</div><div class="p">'+money(b.price)+'<small>'+'Shipping included'+'</small></div></div></button>';});
   $('grid').innerHTML=h;
 }
 function choose(id){
